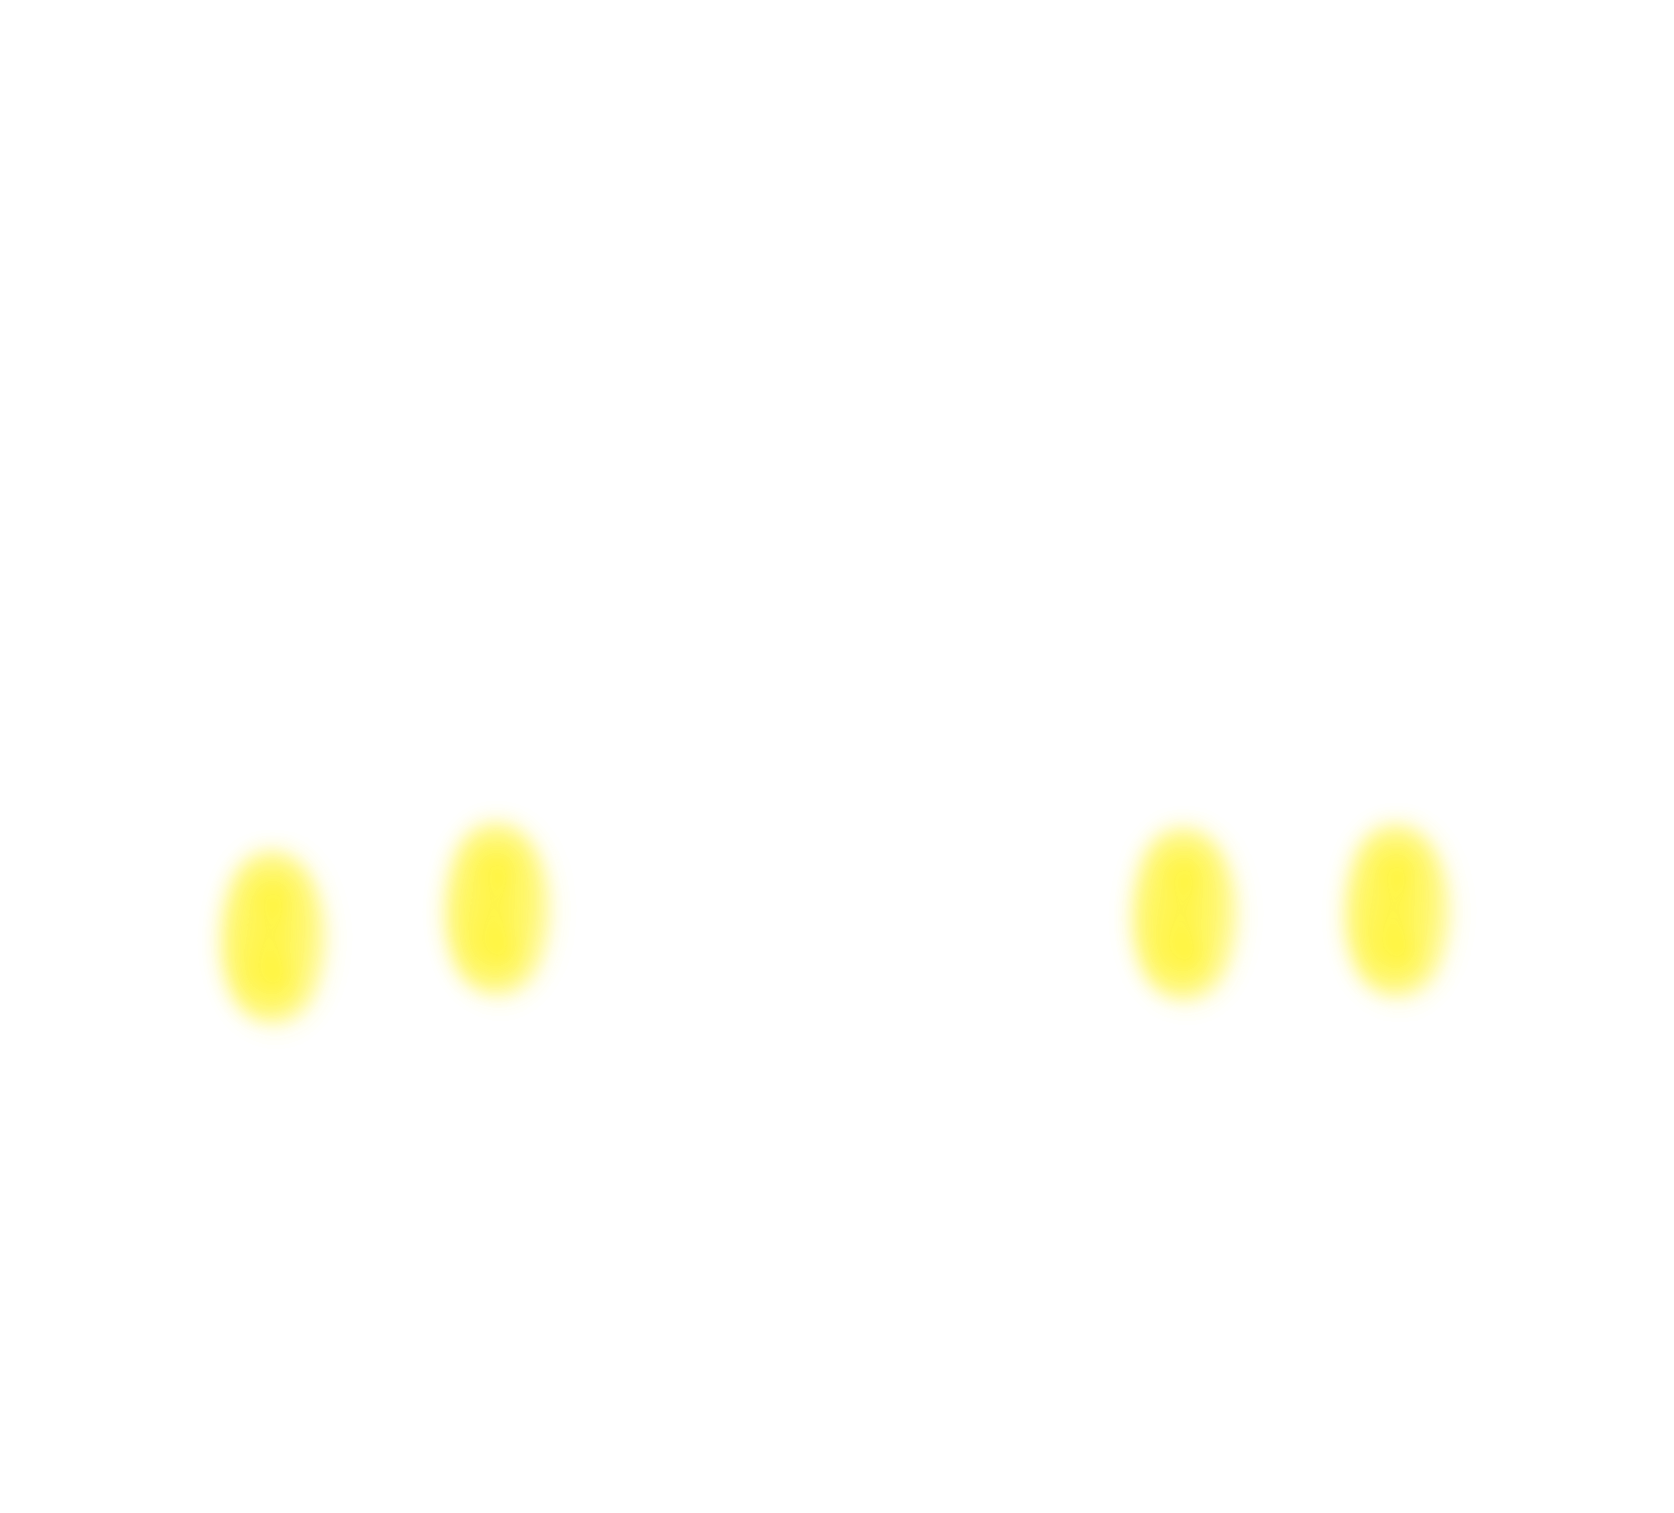
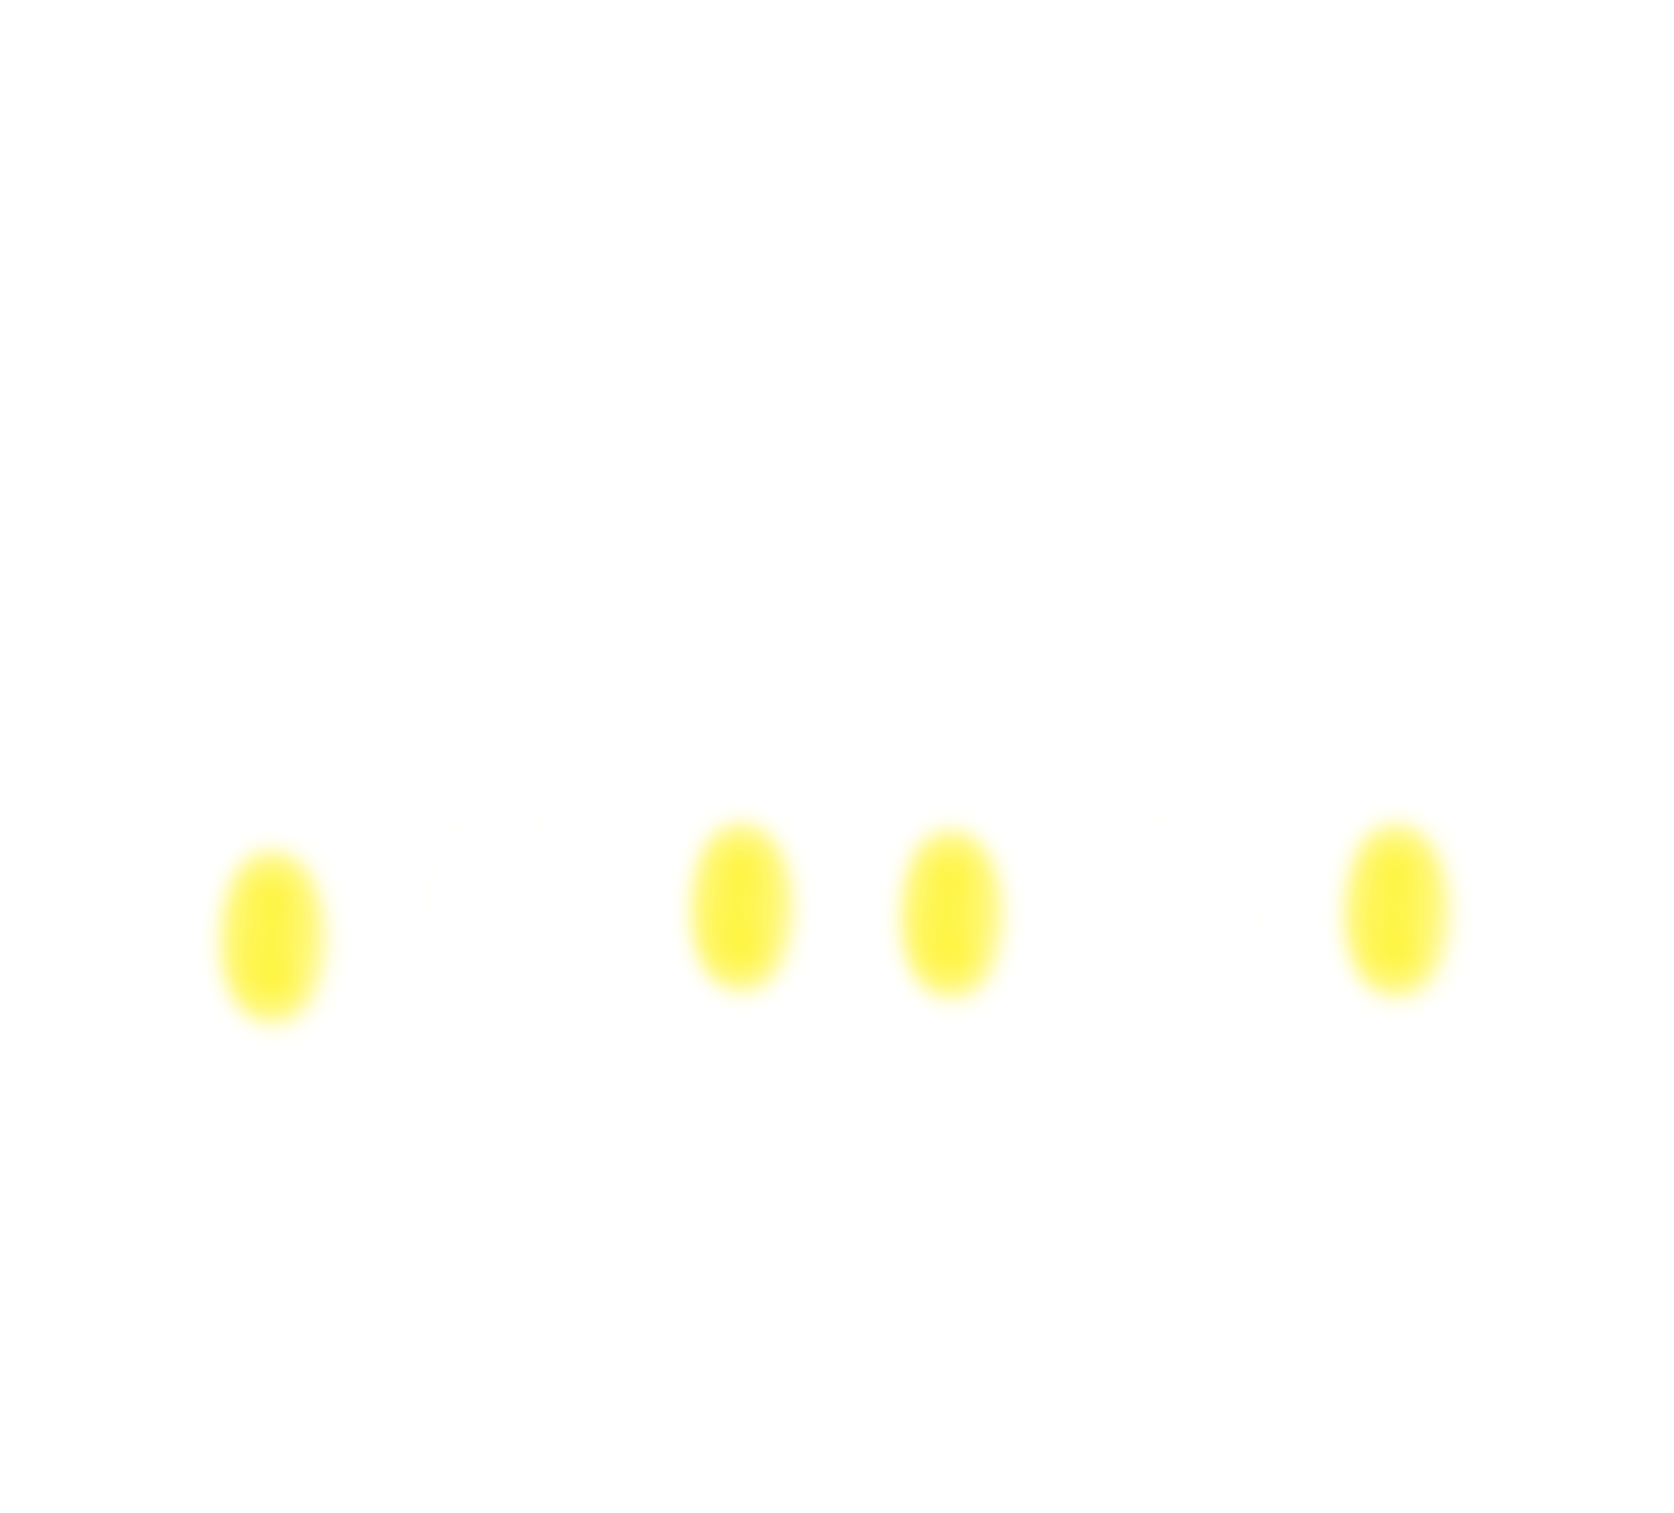
ligths

diff --git a/src/pages/Quiz/Museum/Lights/index.jsx b/src/pages/Quiz/Museum/Lights/index.jsx
@@ -1,20 +1,36 @@
 import React from 'react'
+import { difference } from 'lodash'
+
+import config from '../../../../config'
 
 import { Wrapper, LevelLight, WindowLight } from './styles'
 
-// const LEVELS = [0, 1, 2, 3, 4]
-const LEVELS = Array.from(Array(5).keys())
-const WINDOWS = Array.from(Array(13).keys())
+const Lights = ({ answeredPositions, getAnsweredQuestions }) => {
+  const getLightedLevels = () => {
+    const answeredQuestions = getAnsweredQuestions(answeredPositions)
+    const { levelWindowMapping } = config
 
-const Lights = () => (
-  <Wrapper>
-    {LEVELS.map(level => (
-      <LevelLight key={level} imageID={level} />
-    ))}
-    {WINDOWS.map(level => (
-      <WindowLight key={level} imageID={level} />
-    ))}
-  </Wrapper>
-)
+    const levelsArray = []
+    levelWindowMapping.forEach(level => {
+      const levelIncludesWindows = !difference(level.windows, answeredQuestions).length
+      if (levelIncludesWindows) {
+        levelsArray.push(level.levelID)
+      }
+    })
+
+    return levelsArray
+  }
+
+  return (
+    <Wrapper>
+      {getLightedLevels(answeredPositions).map(level => (
+        <LevelLight key={level} imageID={level} />
+      ))}
+      {getAnsweredQuestions(answeredPositions).map(level => (
+        <WindowLight key={level} imageID={level} />
+      ))}
+    </Wrapper>
+  )
+}
 
 export default Lights

diff --git a/src/pages/Quiz/Museum/index.jsx b/src/pages/Quiz/Museum/index.jsx
@@ -1,7 +1,7 @@
 import React, { Component } from 'react'
 
 import SVGElements from './SVGElements'
-// import Lights from './Lights'
+import Lights from './Lights'
 
 import museum from './img/museum.png'
 import { FullScreenCenter } from '../../../styles/app/app'
@@ -43,16 +43,18 @@ class Museum extends Component {
     this.setState({ points })
   }
 
+  getAnsweredQuestions = () => this.props.answeredPositions.map(position => position.position)
+
   render() {
     const { points } = this.state
-    const { avaliablePositions, getQuestion } = this.props
+    const { avaliablePositions, getQuestion, answeredPositions } = this.props
 
     return (
       <FullScreenCenter>
         <MuseumContainer id="museum">
           <SVGElements />
 
-          {/* <Lights /> */}
+          <Lights answeredPositions={answeredPositions} getAnsweredQuestions={this.getAnsweredQuestions} />
           <MuseumImage src={museum} alt="museum" />
 
           <QuestionContainer>
@@ -64,6 +66,7 @@ class Museum extends Component {
                 disabled={!avaliablePositions.includes(point.id)}
                 data-id={point.id}
                 onClick={getQuestion}
+                hidden={this.getAnsweredQuestions().includes(point.id)}
               />
             ))}
           </QuestionContainer>

diff --git a/src/pages/Quiz/index.jsx b/src/pages/Quiz/index.jsx
@@ -55,7 +55,12 @@ class Quiz extends Component {
     const { avaliablePositions, answeredPositions, question, questionModalIsShown } = this.props
     return (
       <div>
-        <Museum avaliablePositions={avaliablePositions} getQuestion={this.getQuestion} question={question} />
+        <Museum
+          avaliablePositions={avaliablePositions}
+          getQuestion={this.getQuestion}
+          question={question}
+          answeredPositions={answeredPositions}
+        />
         <Menu logout={this.props.logout} />
         {questionModalIsShown && (
           <Question question={question} closeQuestionModal={this.closeQuestionModal} sendAnswer={this.sendAnswer} />

diff --git a/src/config/index.js b/src/config/index.js
@@ -1,3 +1,31 @@
-const config = {}
+const config = {
+  levelWindowMapping: [
+    {
+      levelID: 0,
+      windows: [0]
+    },
+    {
+      levelID: 1,
+      windows: [1, 2, 3, 4, 5, 6]
+    },
+    {
+      levelID: 2,
+      windows: [7, 8]
+    },
+    {
+      levelID: 3,
+      windows: [9, 10, 11]
+    },
+    {
+      levelID: 4,
+      windows: [12]
+    }
+    // 0: [0],
+    // 1: [1, 2, 3, 4, 5, 6],
+    // 2: [7, 8],
+    // 3: [9, 10, 11],
+    // 4: [12]
+  ]
+}
 
 export default config

diff --git a/src/actions/quiz/setPosition.js b/src/actions/quiz/setPosition.js
@@ -1,4 +1,4 @@
-import { SET_POSITION } from '../../constants'
+// import { SET_POSITION } from '../../constants'
 import { URLs, keys } from '../../keys'
 import { POST } from '../../api/fetch'
 import getPosition from './getPosition'
@@ -12,7 +12,7 @@ const setPosition = state => async dispatch => {
     data: await request.json(),
     status: request.status
   }
-  const { data, status } = response
+  const { status } = response
   if (status === 200) {
     dispatch(getPosition())
   }

diff --git a/src/pages/Quiz/Question/index.jsx b/src/pages/Quiz/Question/index.jsx
@@ -59,7 +59,6 @@ class Question extends Component {
 
   render() {
     const { question, closeQuestionModal } = this.props
-    console.log(question)
     const { answers } = this.state
     const anythingChosen = answers.find(answer => answer.answerState === 'chosen')
     const hasAnswered = answers.find(answer => answer.answerState === 'correct' || answer.answerState === 'incorrect')

diff --git a/src/routes/index.js b/src/routes/index.js
@@ -16,7 +16,6 @@ class Routes extends Component {
 
   render() {
     const { isAuthenticated } = this.props
-    console.log(isAuthenticated)
     return (
       <Router history={history}>
         <Switch>

diff --git a/src/actions/user/logout.js b/src/actions/user/logout.js
@@ -1,7 +1,6 @@
 import { AUTH_USER } from '../../constants'
 
 const logout = () => async dispatch => {
-  console.log(123)
   dispatch({
     type: AUTH_USER,
     payload: false
